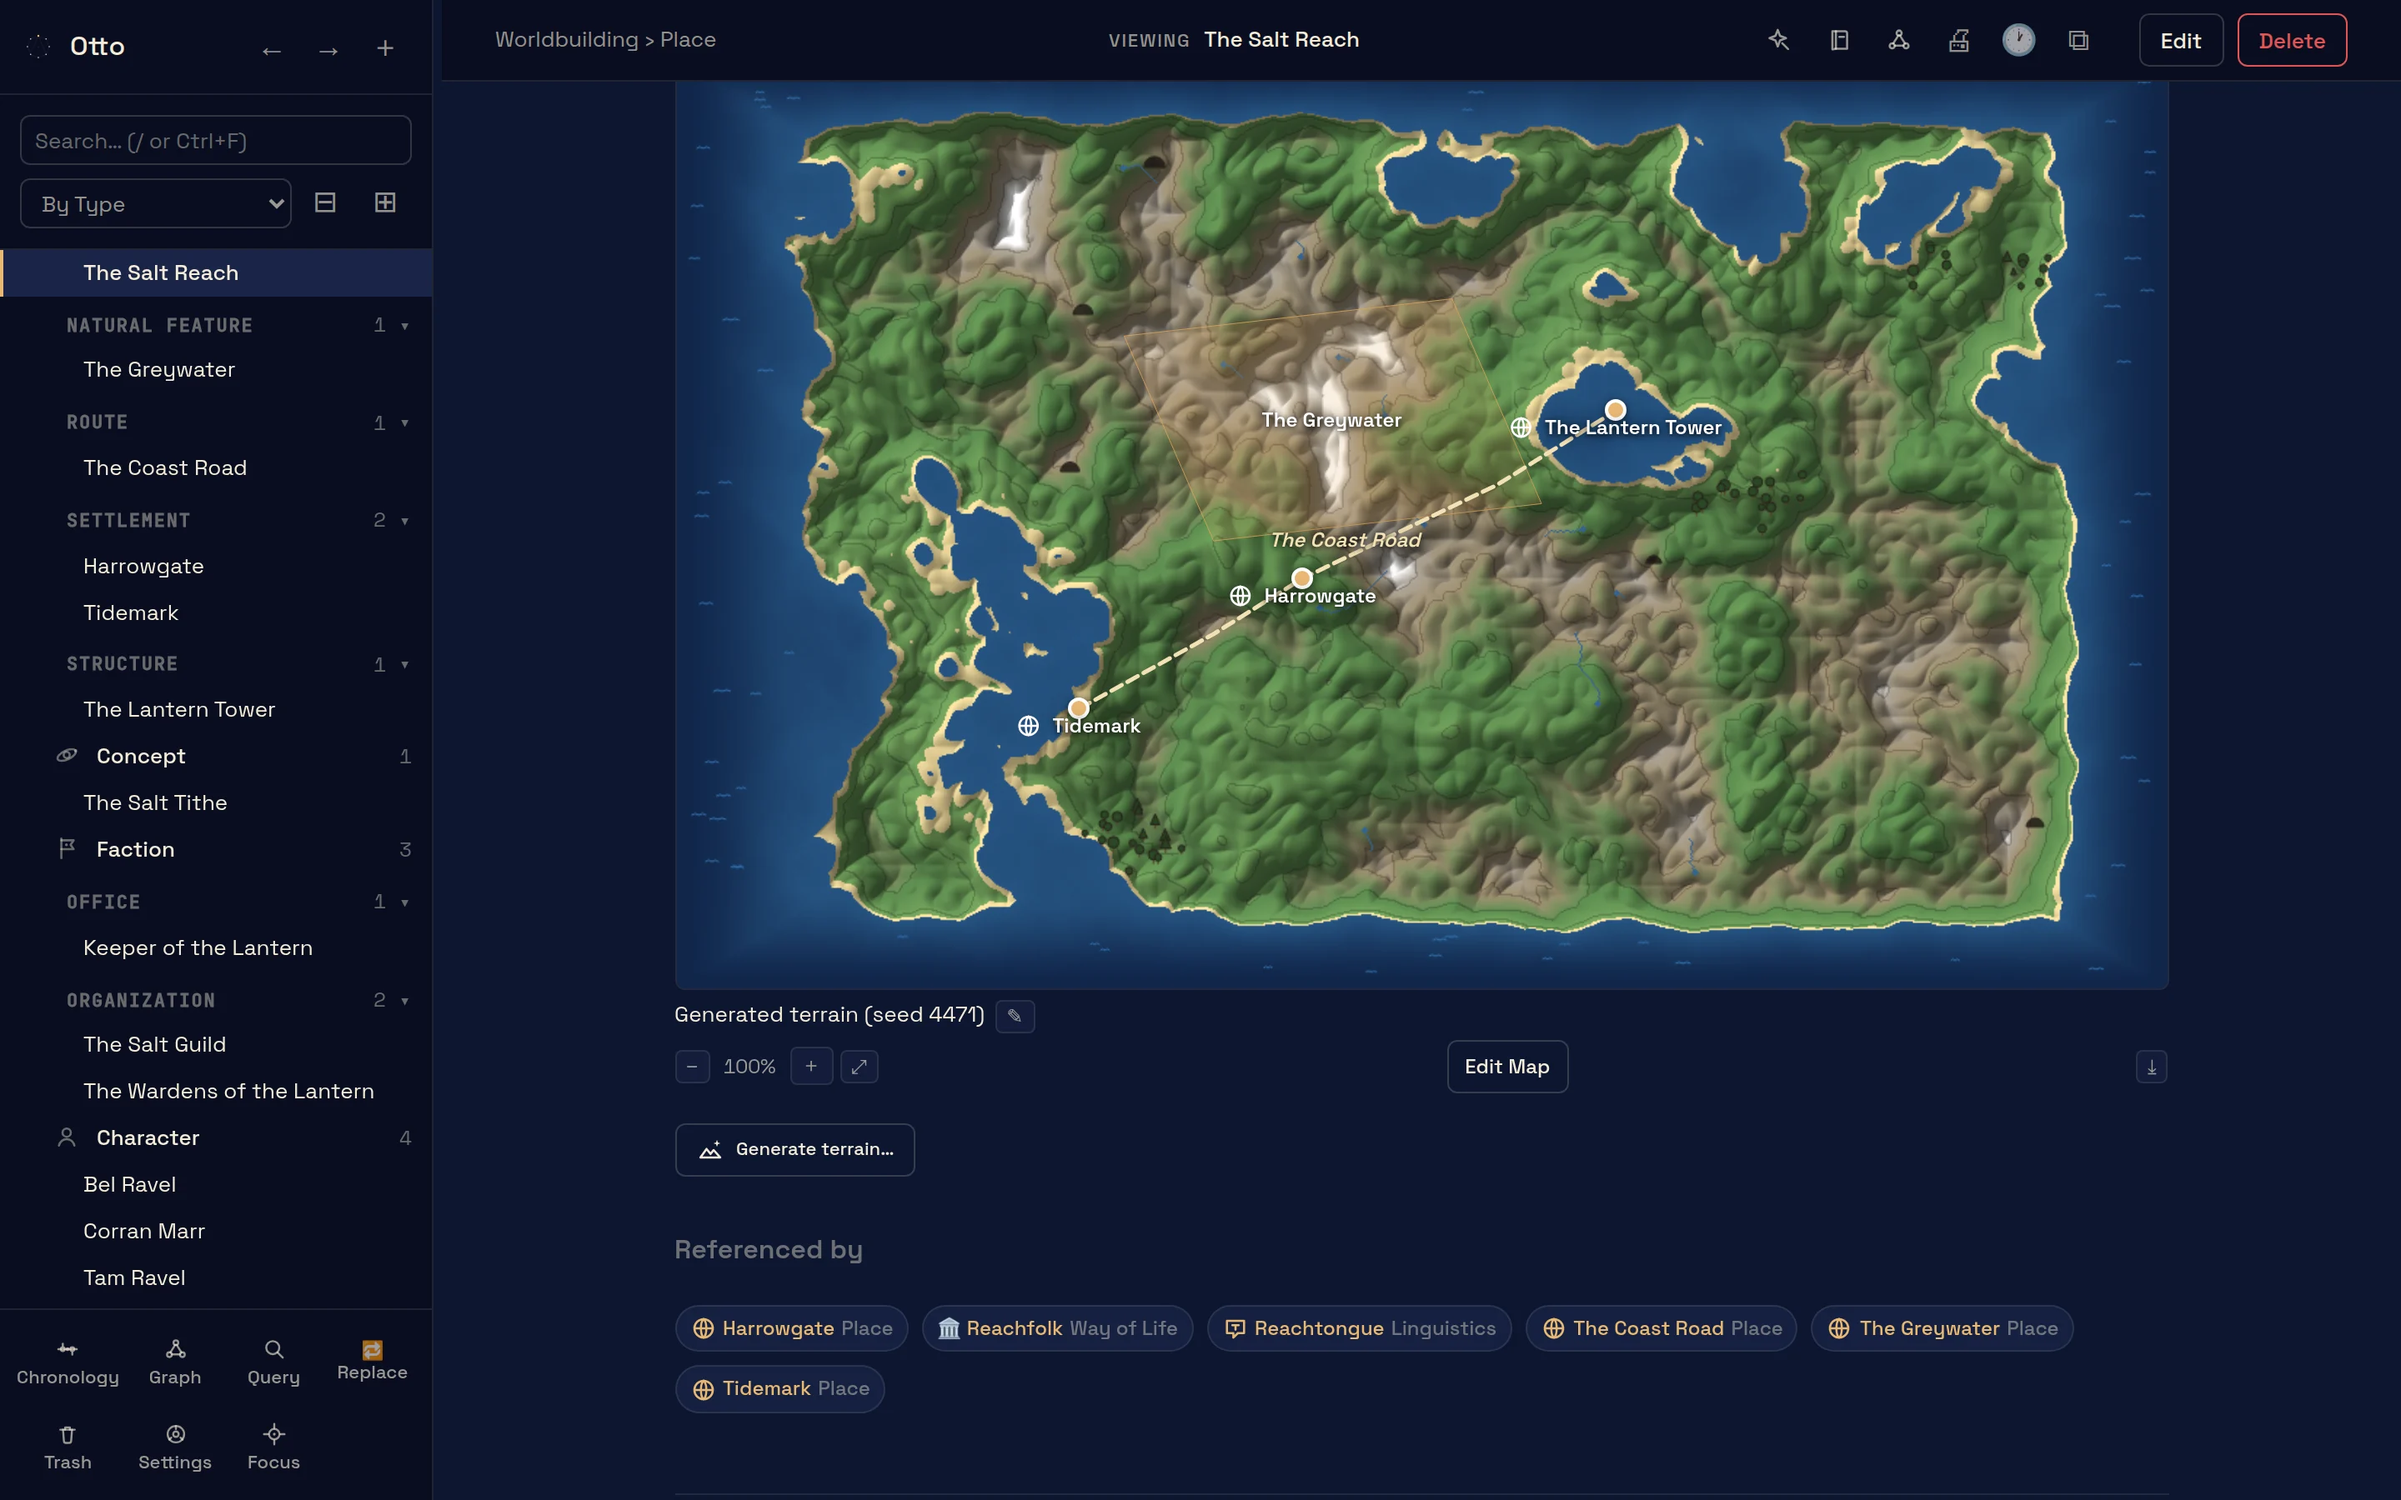
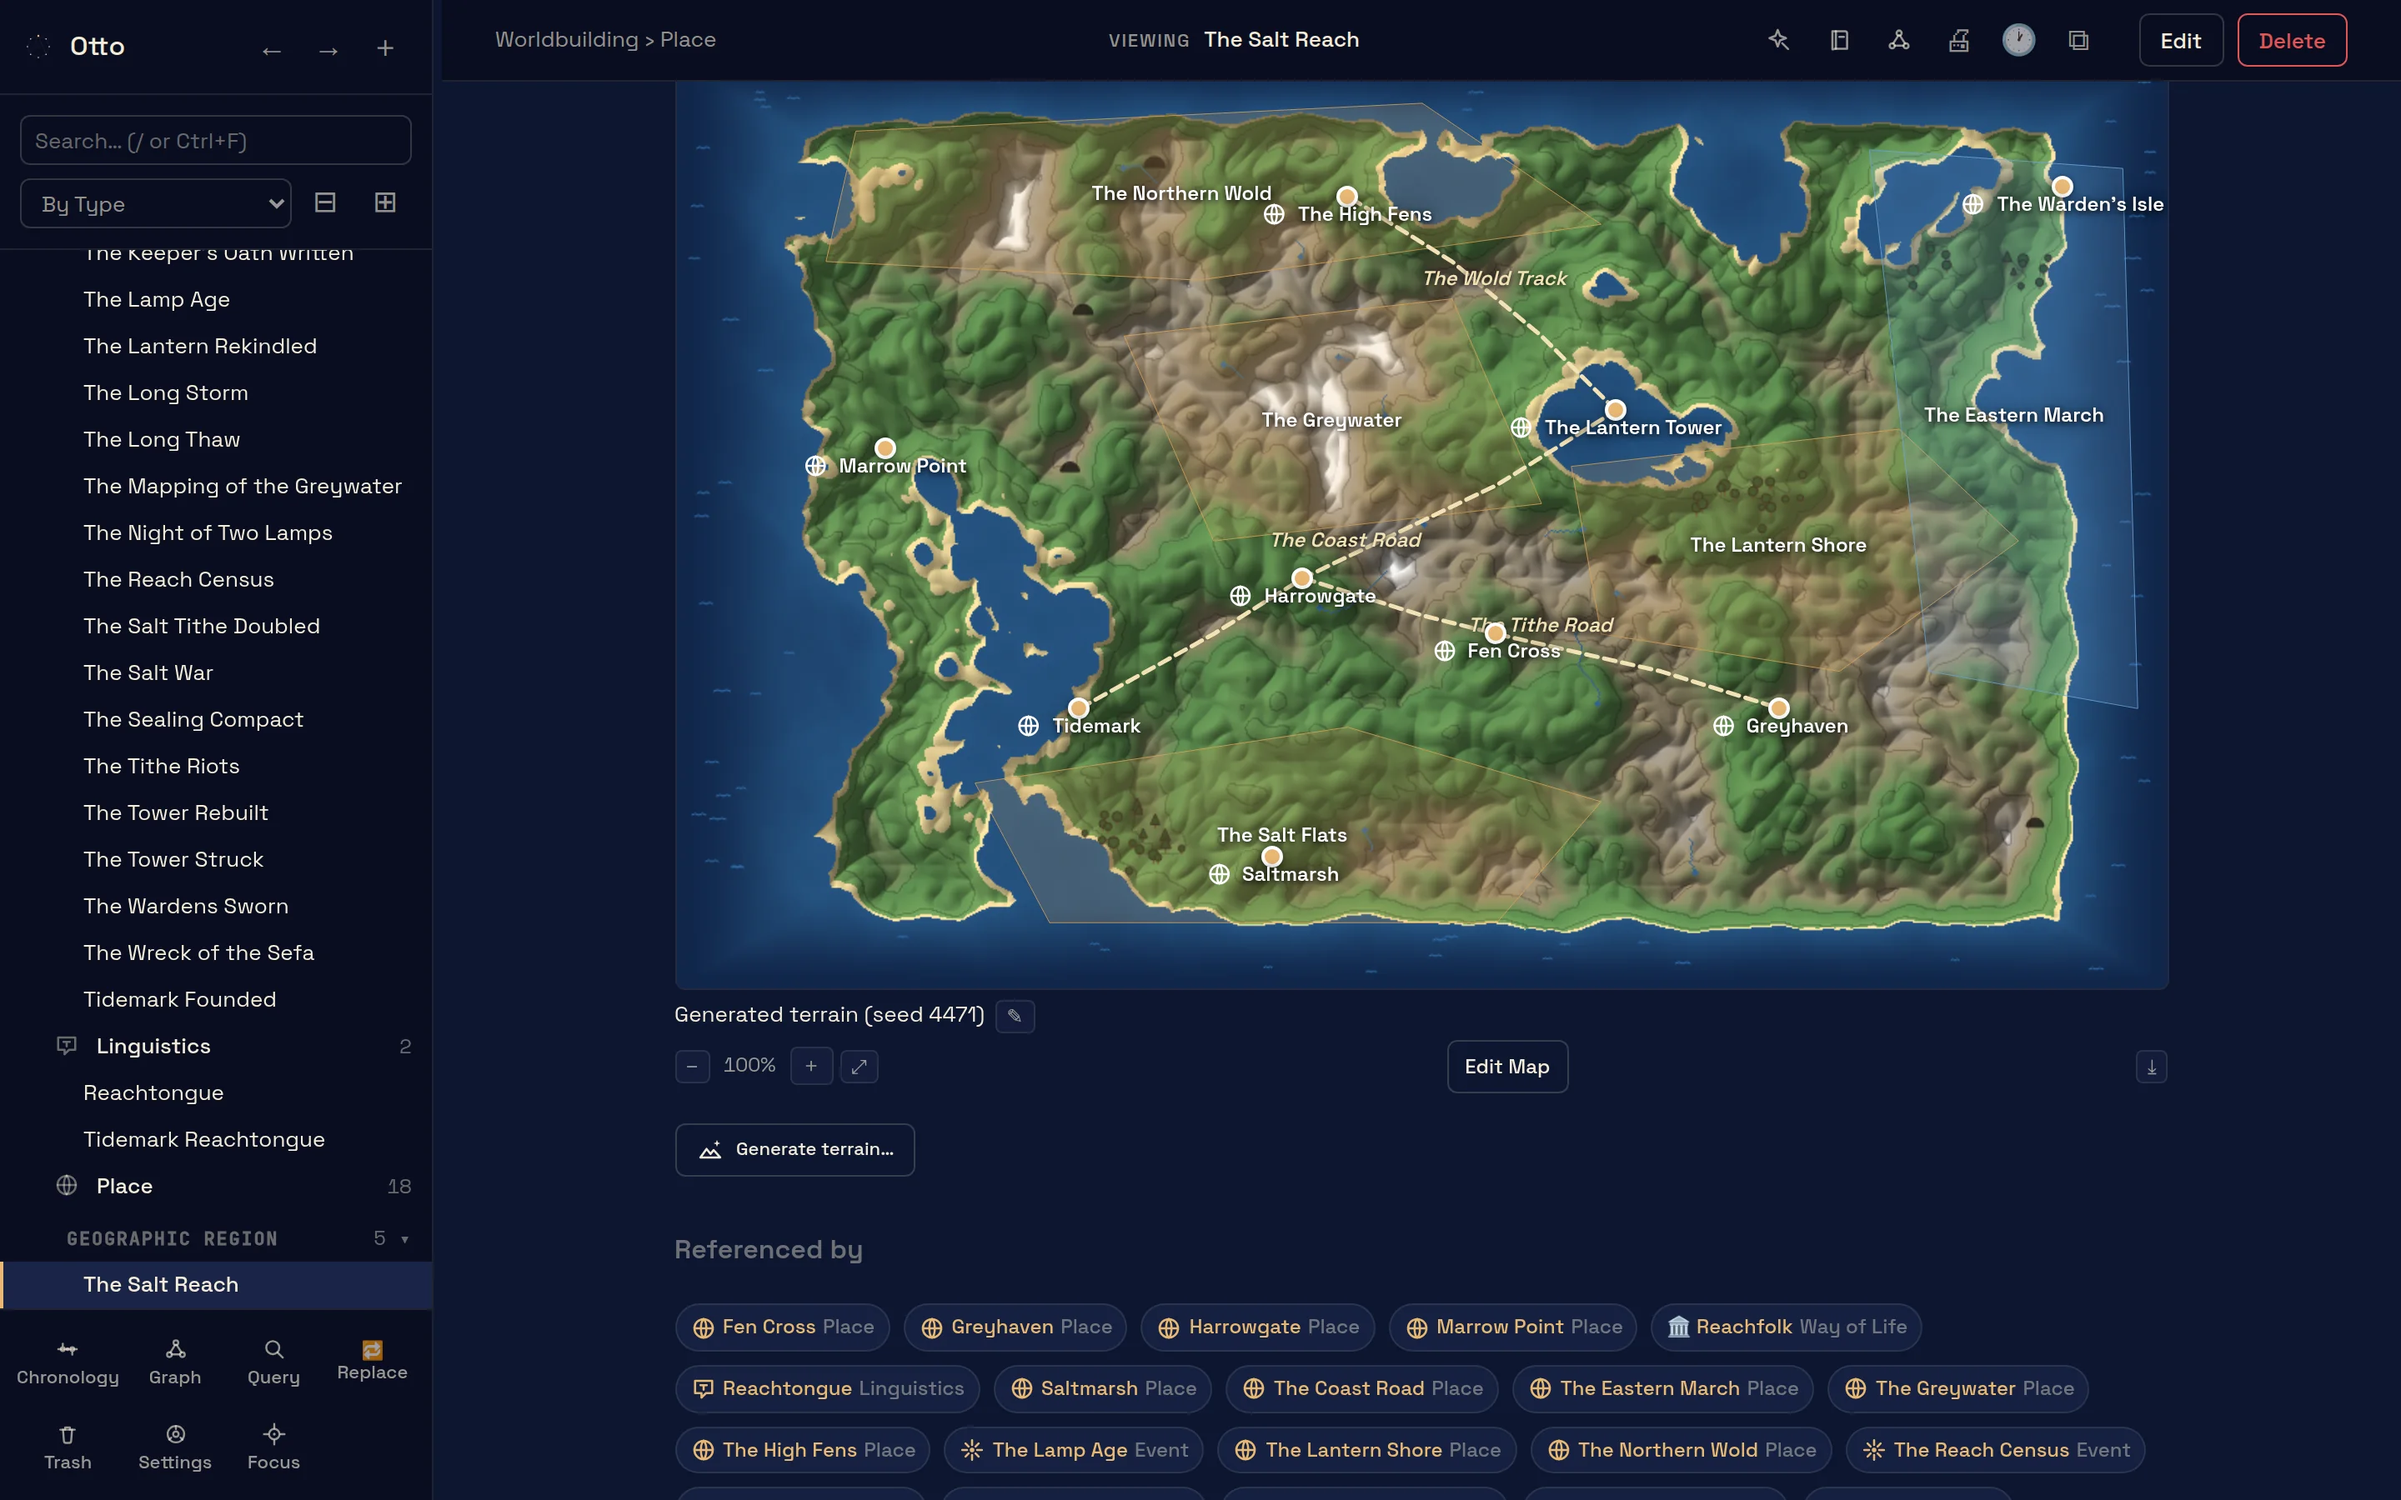
Fuller pictures: the map with five regions, the character entry filled in
The screenshot world's map gains six places, four more regions (a
wilderness, two territories, the Wardens' shore) and two more roads;
the picture shows all of it. Ysolde Marr's entry is filled in down to
her languages and possessions, with more of the world pointing at her,
and her picture is taller so the fields read.

Claude-Session: https://claude.ai/code/session_01ApmZdGg4DJmcZWk7FrD98P

diff --git a/index.html b/index.html
@@ -91,11 +91,11 @@ document.addEventListener('DOMContentLoaded',function(){mark();document.querySel
     <div class="gallery">
       <figure>
         <div class="frame thick" style="--tilt:-0.2deg">
-          <img src="assets/shots/character.webp" alt="A character entry in Otto: fields down the page, each linked name in amber">
+          <img src="assets/shots/character.webp" alt="A character entry in Otto: fields down the page, each linked name in amber" class="tall">
         </div>
         <figcaption class="below">
           <span class="label">Fig. 1</span>
-          <span class="caption">An entry for a character. Every name in amber is a link, because the entry on the other end exists. Further down the page: everything in the world that mentions her, a list nobody typed.</span>
+          <span class="caption">An entry for a character: who she is, where she was born, her family, her offices, her languages, what she owns and what happened to her. Every name in amber is a link, because the entry on the other end exists, and further down the page is everything in the world that mentions her.</span>
         </figcaption>
       </figure>
 
@@ -153,11 +153,11 @@ document.addEventListener('DOMContentLoaded',function(){mark();document.querySel
 
       <figure>
         <div class="frame thick" style="--tilt:0.25deg"><span class="tape far" style="--tilt:-4deg"></span><span class="tape far right" style="--tilt:6deg"></span>
-          <img src="assets/shots/map.webp" alt="A generated terrain map with three places pinned, a region and a road drawn on it">
+          <img src="assets/shots/map.webp" alt="A generated terrain map with nine places pinned, five shaded regions and three roads drawn on it">
         </div>
         <figcaption class="below">
           <span class="label">Fig. 7</span>
-          <span class="caption">A map from the terrain generator, with places pinned, a region shaded and a road drawn. A scanned pencil map works the same way, and each pin opens its entry.</span>
+          <span class="caption">A map from the terrain generator: nine places pinned, five regions shaded (a wilderness, a guild’s territory, the Wardens’ shore), three roads drawn between them. Every pin, region and road is an entry, and a scanned pencil map works the same way.</span>
         </figcaption>
       </figure>
 

diff --git a/site.css b/site.css
@@ -124,6 +124,7 @@ figcaption.inline .label{padding-top:3px;flex:none}
 .pair{display:grid;grid-template-columns:repeat(2,minmax(0,1fr));gap:44px}
 @media (max-width:760px){.pair{grid-template-columns:1fr;gap:56px}}
 .frame img.tree{aspect-ratio:3680/1400}
+.frame img.tall{aspect-ratio:2880/2600}
 .frame img.wide{aspect-ratio:2880/1240}
 figcaption.below{display:flex;gap:14px;margin-top:12px;max-width:44rem}
 figcaption.below .label{padding-top:3px;flex:none}
